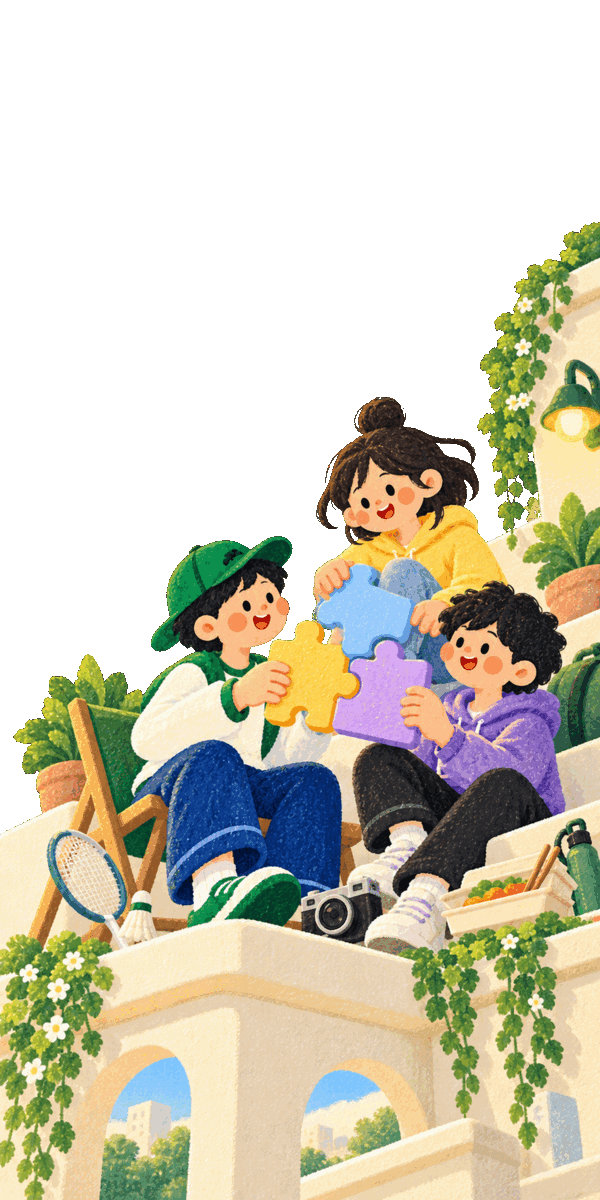
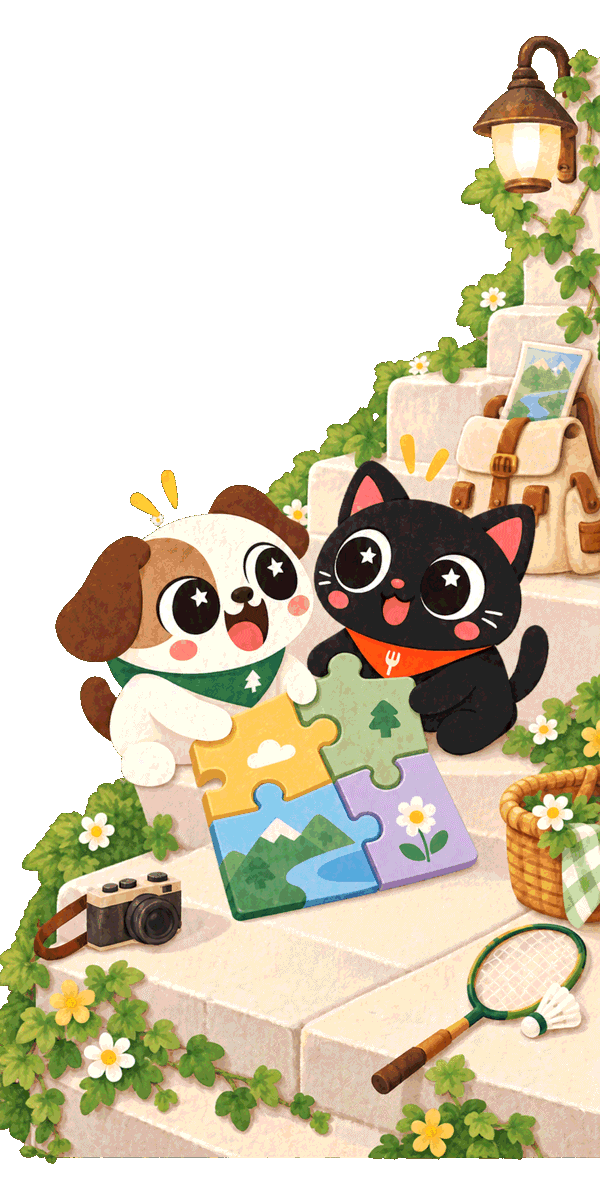
feat: refresh home hero artwork

diff --git a/tests/home-concept-redesign.test.js b/tests/home-concept-redesign.test.js
@@ -75,9 +75,9 @@ test('新首页按问候、Lifestyle Hero、三快捷卡、搜索和活动顺序
   assert.match(style, /\.home-shortcuts\s*\{[^}]*height:\s*220rpx;[^}]*margin-top:\s*-98rpx;/s);
   assert.match(style, /\.home-shortcuts\s*\{[^}]*margin-bottom:\s*8rpx;/s);
   assert.match(style, /\.home-activity-heading\s*\{[^}]*min-height:\s*64rpx;/s);
-  assert.match(style, /\.hero-illustration-slot\s*\{[^}]*right:\s*0;[^}]*bottom:\s*-122rpx;[^}]*width:\s*430rpx;[^}]*height:\s*860rpx;/s);
-  assert.match(style, /\.hero-illustration-image\s*\{[^}]*-webkit-mask-image:\s*linear-gradient\(to bottom, #000 0%, #000 74%, rgba\(0, 0, 0, 0\.72\) 86%, transparent 100%\);/s);
-  assert.match(style, /@media \(max-width:\s*340px\)[\s\S]*\.hero-illustration-slot\s*\{[^}]*bottom:\s*-114rpx;[^}]*width:\s*373rpx;[^}]*height:\s*746rpx;/s);
+  assert.match(style, /\.hero-illustration-slot\s*\{[^}]*right:\s*0;[^}]*bottom:\s*-94rpx;[^}]*width:\s*430rpx;[^}]*height:\s*860rpx;/s);
+  assert.match(style, /\.hero-illustration-image\s*\{[^}]*-webkit-mask-image:\s*linear-gradient\(to bottom, #000 0%, #000 77%, rgba\(0, 0, 0, 0\.72\) 86%, transparent 100%\);/s);
+  assert.match(style, /@media \(max-width:\s*340px\)[\s\S]*\.hero-illustration-slot\s*\{[^}]*bottom:\s*-86rpx;[^}]*width:\s*373rpx;[^}]*height:\s*746rpx;/s);
   assert.match(style, /\.shortcut-icon-slot\s*\{[^}]*width:\s*124rpx;[^}]*height:\s*124rpx;/s);
   assert.match(style, /\.shortcut-subtitle--activities\s*\{[^}]*font-size:\s*16rpx;[^}]*letter-spacing:\s*-1rpx;/s);
   assert.match(template, /class="hero-illustration-slot" aria-hidden="true"/);

diff --git a/.ccg/spec/frontend/index.md b/.ccg/spec/frontend/index.md
@@ -12,7 +12,7 @@
 ## 信息架构
 
 - 首页问候栏相对内容流上移 `44rpx`，只承载头像、昵称与欢迎文案。问候前缀按北京时间 UTC+8 自然时间显示为夜深了 / 早上好 / 上午好 / 中午好 / 下午好 / 晚上好，在页面载入与每次显示时刷新，不增加常驻计时器；账号已有资料时以只读方式同步其昵称与头像，不得为首页展示触发账号创建或登录，读取失败时保留当前安全回退。消息/搜索双按钮必须放在 Hero 右上角：标准屏为 `144×64rpx`、定位 `top: 40rpx; right: 38rpx`，与 Hero 左侧“你的搭子”标题上边界共线；320px 为 `132×58rpx`、定位 `top: 30rpx; right: 28rpx`。首页内容层继续使用累计 `-48rpx` 光学上移且不得修改全局安全区算法。Hero 使用活动卡压缩后释放的纵向空间继续向下伸展：标准屏高度为 `709rpx`、320px 为 `652rpx`，使快捷卡和“附近拼吧”整体下移、但三张活动卡底边仍维持在悬浮 TabBar 上方约 `16rpx` 的安全距离。首页为单屏固定视口，页面配置必须启用 `disableScroll`、关闭下拉刷新，根节点同时锁定 `100vh` 并裁切纵向溢出。活动流为空或首屏错误时必须使用首页专用横向 `compact` 空态：标准屏高 `275rpx`、320px 或短屏高 `240rpx`，按钮真实触控高度不得小于 `88rpx`；短屏可隐藏辅助说明，但不得改动非空三列活动卡、骨架屏、Hero 或快捷卡的既有比例。
-- 首页 Hero 正式主视觉使用本地透明 PNG `hero-community-puzzle.png`，采用 `aspectFit` 保留完整人物和场景边缘；发布素材固定为 `600×1200` 的 1:2 竖图。标准屏槽位 `430×860rpx`、锁定 `right: 0; bottom: -122rpx`，320px 槽位 `373×746rpx`、锁定 `right: 0; bottom: -114rpx`，使图片物理底边与三张快捷卡底边严格齐平。插画下部从重叠区起点附近（约 74%）渐隐，至快捷卡底边完全透明；插画仍位于 Hero 文案层下和快捷卡层下，不得遮挡卡片文字与交互。“附近拼吧”紧跟快捷卡：快捷卡下间距 `8rpx`、章节栏高 `64rpx`；三列活动卡按宽高 `1:1.25` 设计，标准屏为 `220×275rpx`、320px 为 `192×240rpx`，骨架屏必须保持同尺寸。
+- 首页 Hero 正式主视觉使用本地透明 PNG `hero-community-puzzle.png`，采用 `aspectFit` 保留完整人物和场景边缘；发布素材固定为 `600×1200` 的 1:2 竖图。标准屏槽位 `430×860rpx`、锁定 `right: 0; bottom: -94rpx`，320px 槽位 `373×746rpx`、锁定 `right: 0; bottom: -86rpx`，使新版猫狗拼图主体完整停留在快捷卡上方。插画下部从约 77% 开始渐隐，至快捷卡底边完全透明；插画仍位于 Hero 文案层下和快捷卡层下，不得遮挡卡片文字与交互。“附近拼吧”紧跟快捷卡：快捷卡下间距 `8rpx`、章节栏高 `64rpx`；三列活动卡按宽高 `1:1.25` 设计，标准屏为 `220×275rpx`、320px 为 `192×240rpx`，骨架屏必须保持同尺寸。
 - TabBar 固定为“首页 / 发现 / 发布 / 消息 / 我的”五栏；为避免迁移风险，`pages/discover/index` 保持首页物理路由，`pages/community/index` 保持发现物理路由。“发布”保持第 3 项视觉中心，“消息”固定在发布与我的之间。底栏使用微信官方 `custom-tab-bar`，五个 Tab 页必须在 `onShow` 同步选中态。
 - 首页使用 `#F9F7F2` 暖米白生活方式视觉，正文顺序固定为动态头像昵称问候栏、生活方式 Hero、与 Hero 负边距叠放的三张快捷卡、真实活动流。首页不申请定位，活动章节固定使用“正在组队 · 全城热拼”，不得在无定位上下文声称“附近”。搜索仅使用 Hero 内右对齐锚定浮层，不得再在快捷卡下方插入搜索或类型筛选面板。Hero 与三列活动预览的既有几何契约保持不变。三张快捷卡固定为“组队拼团 / 看看大家都在聊什么”“琐碎回忆 / 记录第一次成团”“暂定 / 模块占位”；第一张以防重复入栈的 `navigateTo` 进入 `subpackages/activity/list/index` 全城列表，第二张进入 `subpackages/activity/memories/index` 静态专题预告页，第三张必须为不可点击占位。真实 UGC 契约上线前不得伪造故事、天气、通知、邻里图片或统计。
 - 发现 Tab 使用同源暖米白背景和黑色状态栏文字，顶部采用白色讨论搜索胶囊与消息铃铛。搜索只匹配 ACTIVE 帖子的公开正文 `content`，输入草稿与已提交关键词必须分离；键盘确认或“搜索”按钮才生效，清空恢复全量，下拉刷新、错误重试和分页始终绑定已提交关键词。关键词最长 30 字并与不透明游标绑定；Cloud 稀疏命中必须有界跨批扫描，不得只过滤当前页。活动列表入口由下方“寻找搭子”主题卡承担。其下横向主题轨只承载“寻找搭子 / 社区守则 / 发布讨论”三个已有真实动作，320px 窄屏保持横向滚动；不得增加关注、附近、问答等伪筛选或伪频道。信息流使用大圆角白卡、对应账号当前受控头像和浅米色纯文字正文面板；帖子与回复仅消费 `author.avatar` 的 `CUSTOM | DEFAULT | EMPTY` 安全 DTO，CUSTOM 破图先单次回退到性别手绘头像，再失败则回退昵称首字低饱和色块，回退必须按帖子或回复稳定 ID 定向更新。不得伪造热门话题、认证身份、位置、帖子配图、收藏、分享或浏览量。正文最多四行并支持连续字符断行；整卡普通进入详情，点赞、回复与更多操作为独立 `catchtap` 热区，不显示冗余“查看详情”文案。更多操作第一层必须为作者显示“删除内容、举报”、为其他用户显示“举报”；举报再经交互门禁进入标准原因选择，作者删除必须二次确认。删除成功后当前页面必须以 ID 墓碑过滤在途刷新与分页的旧快照。点击回复进入详情后仅在首次详情成功加载时自动聚焦回复框，失败、重试、普通详情或离屏晚到响应不得拉起键盘。空态可使用本地透明插画。顶部继续复用页面根节点 `contentTopInset`，不得重复叠加状态栏高度。

diff --git a/.ccg/tasks/archive/2026-09/integrate-home-hero-ip/review.md b/.ccg/tasks/archive/2026-09/integrate-home-hero-ip/review.md
@@ -1,0 +1,19 @@
+# 猫狗拼图首页 Hero 接入复核
+
+## 结果
+
+- 用户定稿源图已转换为 600 × 1200 px 透明调色板 PNG。
+- 正式资产为 175,264 bytes，低于原资产 189,309 bytes 和 200 KiB 单图门禁。
+- 标准屏插画底部定位由 -122rpx 调整为 -94rpx。
+- 320px 插画底部定位由 -114rpx 调整为 -86rpx。
+- 遮罩完整不透明段由 74% 延长至 77%，保证拼图在快捷卡遮挡前完整呈现。
+- Hero、快捷卡、活动卡、骨架屏与空状态槽位尺寸未修改。
+
+## 验证
+
+- 首页专项测试：8 pass，0 fail。
+- 全量验证：577 pass，1 skip，0 fail。
+- 项目结构检查：342 JSON、208 JS、29 WXML，状态 ok。
+- PNG：600 × 1200、透明通道存在、调色板格式、175,264 bytes。
+
+本次为用户已经逐轮确认的低风险视觉资产替换与 3 项确定性样式参数调整，代码变更不超过 30 行，不需要额外外部模型复审。
